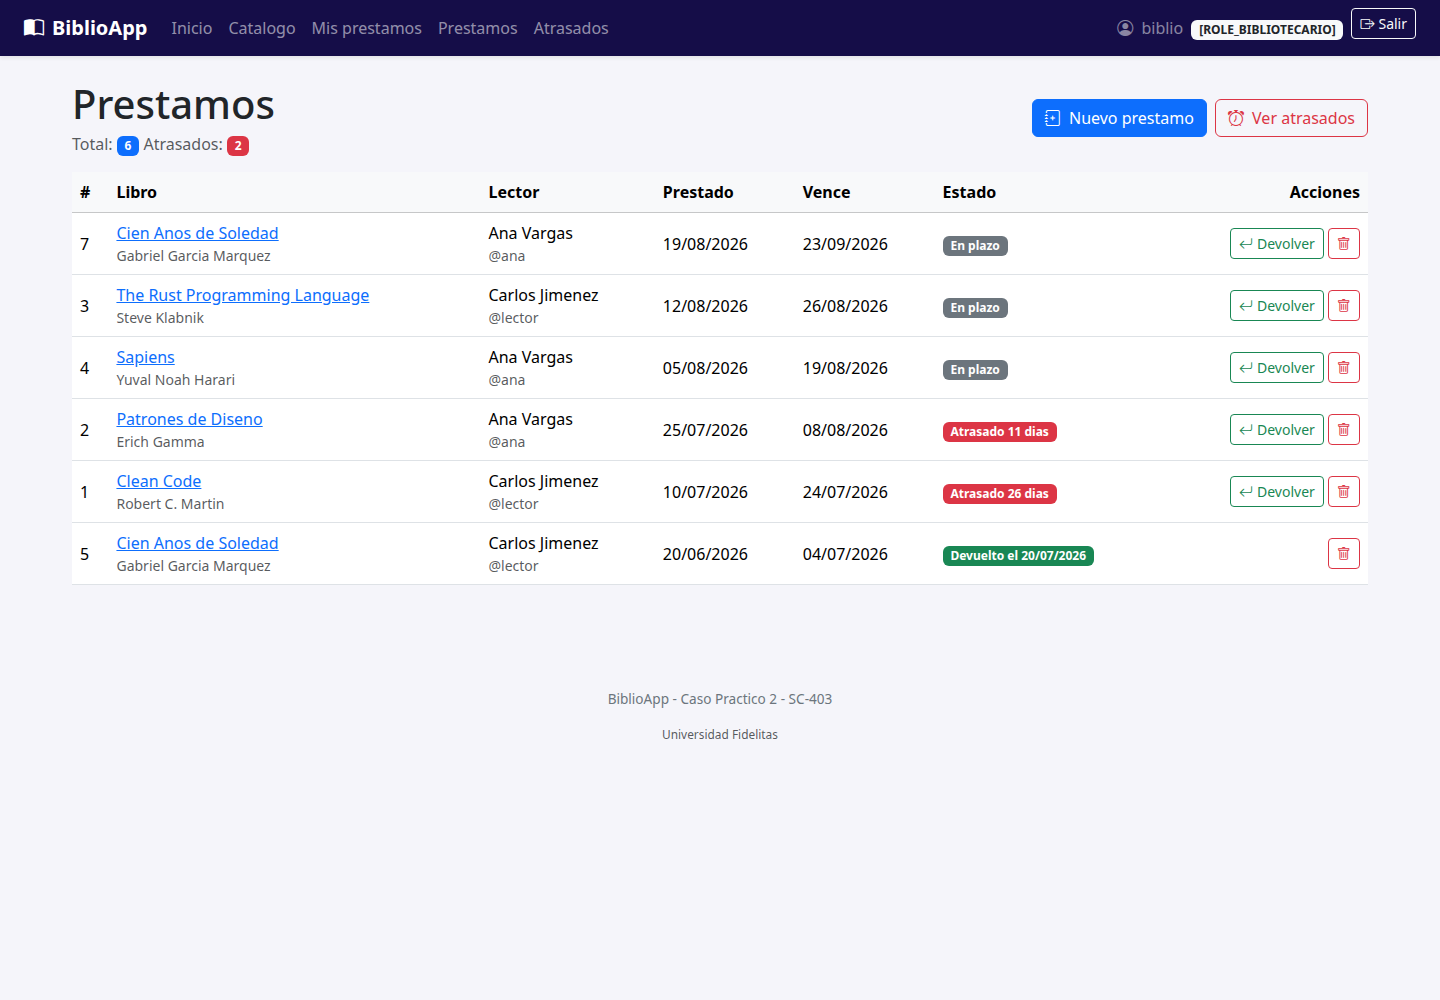
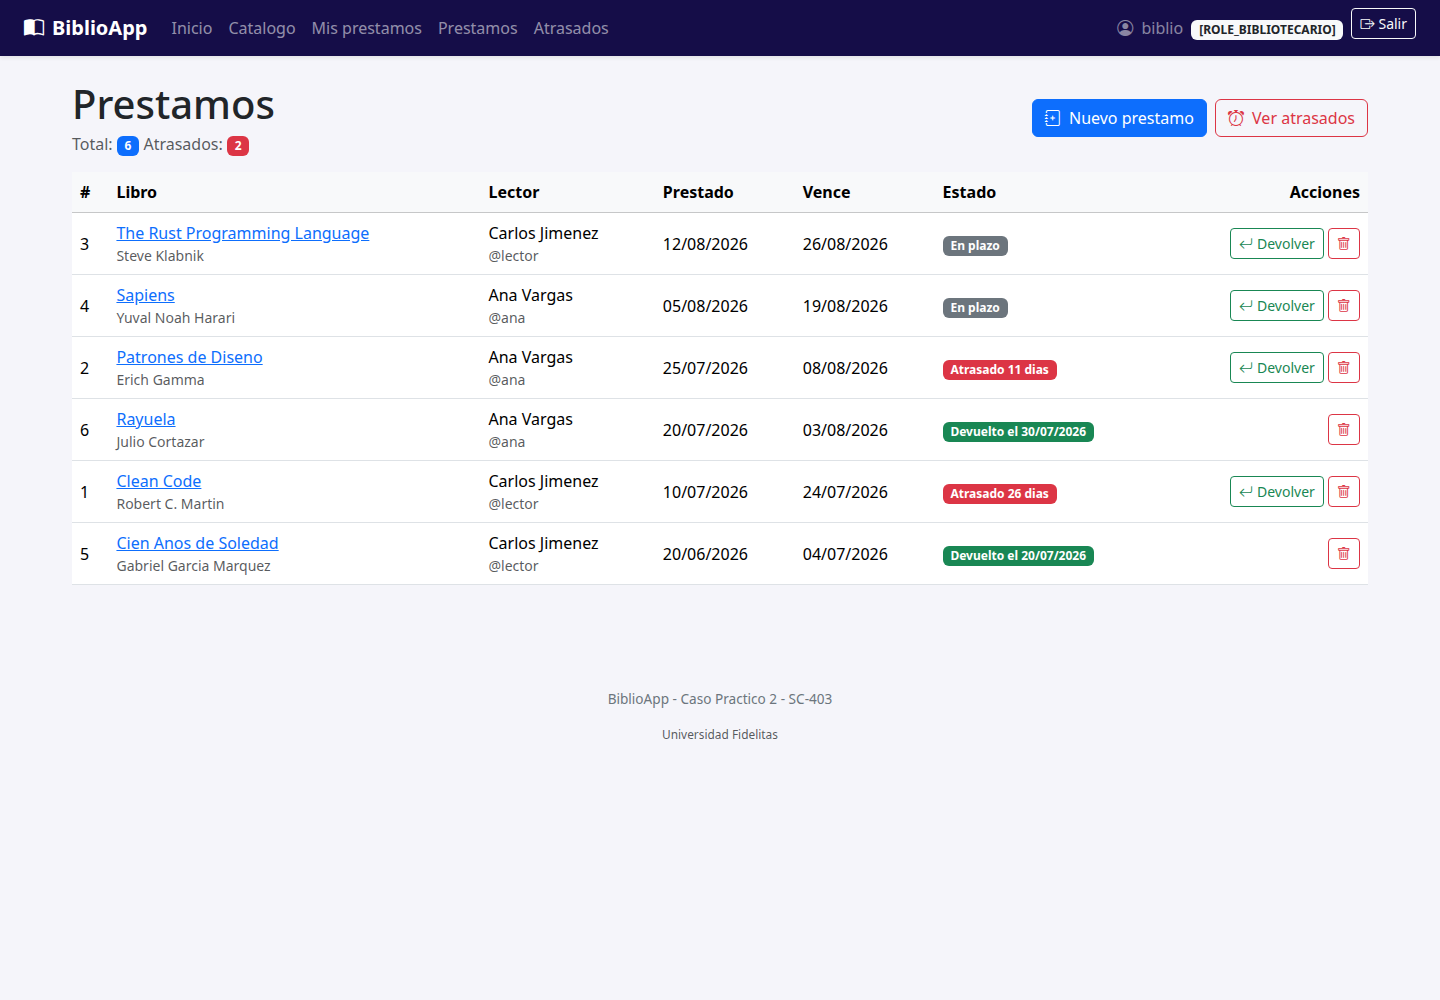
refactor(caso2): renombrar la consulta JPQL a prestamosAtrasados
Nombre pedido por el enunciado. Se actualizan el service, el
controller REST, los comentarios y la documentacion.

diff --git a/Caso_Practico_2/biblioapp/src/main/java/com/ufide/biblioapp/repository/PrestamoRepository.java b/Caso_Practico_2/biblioapp/src/main/java/com/ufide/biblioapp/repository/PrestamoRepository.java
@@ -42,11 +42,11 @@ public interface PrestamoRepository extends JpaRepository<Prestamo, Long> {
              AND p.fechaDevolucionEsperada < :hoy
            ORDER BY p.fechaDevolucionEsperada ASC
            """)
-    List<Prestamo> findAtrasados(@Param("hoy") LocalDate hoy);
+    List<Prestamo> prestamosAtrasados(@Param("hoy") LocalDate hoy);
 
-    // Variante de conteo, para el badge del navbar y el resumen del home.
-    // Mismas dos condiciones que arriba, sin JOIN FETCH (COUNT no necesita
-    // materializar las entidades relacionadas).
+    // Variante de conteo de la misma consulta, para el badge del listado y el
+    // resumen de la API. Mismas dos condiciones, sin JOIN FETCH: un COUNT no
+    // necesita materializar las entidades relacionadas.
     @Query("""
            SELECT COUNT(p) FROM Prestamo p
            WHERE p.fechaDevolucionReal IS NULL

diff --git a/Caso_Practico_2/biblioapp/src/main/java/com/ufide/biblioapp/service/PrestamoService.java b/Caso_Practico_2/biblioapp/src/main/java/com/ufide/biblioapp/service/PrestamoService.java
@@ -43,9 +43,9 @@ public class PrestamoService {
     }
 
     // Los atrasados se calculan SIEMPRE contra la fecha de hoy, y el filtro
-    // corre en la base de datos via JPQL (ver PrestamoRepository.findAtrasados).
+    // corre en la base de datos via JPQL (ver PrestamoRepository.prestamosAtrasados).
     public List<Prestamo> listarAtrasados() {
-        return repo.findAtrasados(LocalDate.now());
+        return repo.prestamosAtrasados(LocalDate.now());
     }
 
     public long contarAtrasados() {

diff --git a/Caso_Practico_2/biblioapp/src/main/java/com/ufide/biblioapp/entity/Prestamo.java b/Caso_Practico_2/biblioapp/src/main/java/com/ufide/biblioapp/entity/Prestamo.java
@@ -74,7 +74,7 @@ public class Prestamo {
     // ===== Estado derivado =====
     // @Transient: se calcula en memoria, NO es una columna. Sirve para las
     // vistas y para el JSON de la API, pero la deteccion de atrasados de
-    // verdad se hace en JPQL (PrestamoRepository.findAtrasados) para no
+    // verdad se hace en JPQL (PrestamoRepository.prestamosAtrasados) para no
     // traer toda la tabla a Java y filtrarla aca.
 
     @Transient

diff --git a/Caso_Practico_2/biblioapp/src/main/java/com/ufide/biblioapp/controller/PrestamoRestController.java b/Caso_Practico_2/biblioapp/src/main/java/com/ufide/biblioapp/controller/PrestamoRestController.java
@@ -38,7 +38,7 @@ public class PrestamoRestController {
     }
 
     // GET /api/prestamos/atrasados -> ENDPOINT PEDIDO POR EL CASO 2.
-    // Detras corre la JPQL propia de PrestamoRepository.findAtrasados(:hoy):
+    // Detras corre la JPQL propia PrestamoRepository.prestamosAtrasados(:hoy):
     // fechaDevolucionReal IS NULL AND fechaDevolucionEsperada < hoy.
     @PreAuthorize("hasRole('BIBLIOTECARIO')")
     @GetMapping("/atrasados")

diff --git a/Caso_Practico_2/SOLUCION.md b/Caso_Practico_2/SOLUCION.md
@@ -29,9 +29,14 @@ sume ejemplares de la nada.
 
 ## Roles y 403
 
-Los dos roles viven en el enum `Rol`, y `UsuarioService.rolValido()` rechaza cualquier otro
-valor antes de llegar a la base. Dentro de `@PreAuthorize` el rol sigue siendo un String
-(SpEL es texto), asi que el enum no me salva de un typo ahi, si en el resto del codigo.
+Los dos roles viven en el enum `Rol`, y el campo `Usuario.rol` es de ese tipo, no un
+String: con `@Enumerated(EnumType.STRING)` se guarda el nombre ("BIBLIOTECARIO") en la
+columna y no el ordinal, porque con ORDINAL agregar o reordenar un valor del enum le
+cambia el significado a las filas que ya estan en la base. Tipado asi, un rol invalido no
+compila ni puede entrar por JPA; lo unico que queda por validar es el texto que llega de
+afuera (un select, un POST JSON), y de eso se ocupa `UsuarioService.rolDesdeTexto()`.
+Dentro de `@PreAuthorize` el rol sigue siendo un String porque SpEL es texto: ahi el enum
+no me salva de un typo, si en el resto del codigo.
 
 Criterio: leer es de todos, gestionar es del bibliotecario.
 
@@ -84,7 +89,7 @@ excepcion y el controller las traduce a 409, no a un 500.
          AND p.fechaDevolucionEsperada < :hoy
        ORDER BY p.fechaDevolucionEsperada ASC
        """)
-List<Prestamo> findAtrasados(@Param("hoy") LocalDate hoy);
+List<Prestamo> prestamosAtrasados(@Param("hoy") LocalDate hoy);
 ```
 
 Dos condiciones y ninguna sobra:
